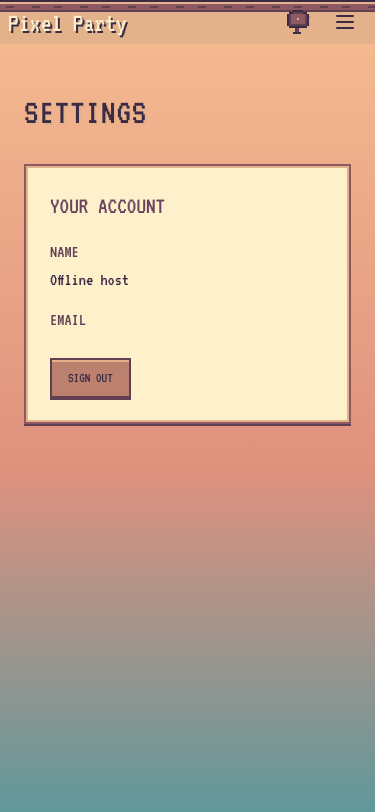
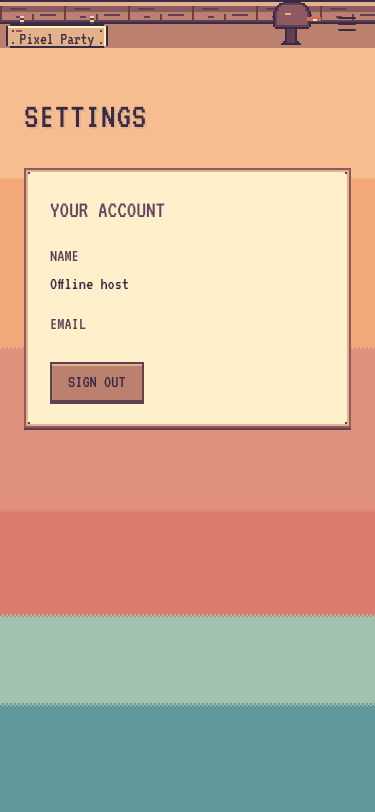
fix(theme): sign beam and backdrop art pass

diff --git a/src/components/Navigation.tsx b/src/components/Navigation.tsx
@@ -9,20 +9,45 @@ import { P } from '../scene/palette'
 import { defineSprite, drawSprite, type Sprite } from '../scene/sprite'
 import { DropdownMenu, DropdownMenuContent, DropdownMenuItem, DropdownMenuLabel, DropdownMenuSeparator, DropdownMenuTrigger } from './ui'
 
-const woodPalette = { a: P.wood[0], b: P.wood[1], c: P.wood[2], d: P.wood[3], e: P.wood[4], f: P.sun[4], g: P.flame[2] }
-const beam = defineSprite([
-  'aaaaaaaaaaaaaaaaaaaaaaaa', 'eeeeeeeeeeeeeeeeeeeeeeee', 'cccccccccccccccccccccccc',
-  'cccbbbbcccccccccbbbbcccc', 'cccccccccccccccccccccccc', 'bbbbbbbbbbbbbbbbbbbbbbbb',
-], woodPalette)
-const sign = defineSprite(Array.from({ length: 14 }, (_, y) => Array.from({ length: 40 }, (_, x) => {
-  if (y < 2) return x === 9 || x === 30 ? 'b' : '.'
-  if (y === 2 || y === 13 || x === 0 || x === 39) return 'a'
-  if (y === 3 || x === 38) return 'f'
-  if ((y === 5 && x > 3 && x < 11) || (y === 11 && x > 26 && x < 35)) return 'c'
-  return 'e'
+const woodPalette = { a: P.wood[0], b: P.wood[1], c: P.wood[2], d: P.wood[3], e: P.wood[4], f: P.sun[4], g: P.flame[1], h: P.paper[3], i: P.sea[1], j: P.sun[2] }
+const beam = defineSprite(Array.from({ length: 12 }, (_, y) => Array.from({ length: 32 }, (_, x) => {
+  if (y === 0 || y === 11) return 'a'
+  if (y === 1 || y === 2) return 'e'
+  if (y === 10) return 'b'
+  if (x === 0 || (x === 16 && y > 6)) return 'b'
+  if ((y === 4 && x > 4 && x < 13) || (y === 7 && x > 19 && x < 28) || (y === 8 && x > 7 && x < 11)) return 'b'
+  return y < 6 ? 'c' : 'd'
 }).join('')), woodPalette)
-const lantern = defineSprite(['...aaa...', '..abbba..', '..aeeea..', 'gabfffbag', 'gabfgfbag', 'gabfffbag', '.abfffba.', '..abbba..', '..aaaaa..', '...aaa...'], woodPalette)
-const mailbox = defineSprite(['....aaaaa.......', '..aabbbbbaa.....', '.abcccccccba....', '.abcccccccbag...', '.abcccecccbaee..', '.abcccccccba....', '.abcccccccba....', '.abbbbbbbbba....', '..aaaaaaaaa.....', '.....bb.........', '.....bb.........', '....aaaa........'], woodPalette)
+
+function plank(width: number, active = false): Sprite {
+  return defineSprite(Array.from({ length: 16 }, (_, y) => Array.from({ length: width }, (_, x) => {
+    if (y < 4) return x === 7 || x === 8 || x === width - 9 || x === width - 8 ? (y % 2 ? 'b' : 'h') : '.'
+    if ((y === 4 || y === 15) && (x < 2 || x >= width - 2)) return '.'
+    if (y === 4 || y === 15 || x === 0 || x === width - 1) return 'a'
+    if (y === 5 || x === width - 2) return 'f'
+    if ((x === 3 || x === width - 4) && (y === 7 || y === 13)) return 'b'
+    if (y === 7 && x > 4 && x < 8) return active ? 'd' : 'c'
+    return active ? 'h' : 'e'
+  }).join('')), woodPalette)
+}
+const sign = plank(40)
+const activeSign = plank(40, true)
+const logoSign = plank(51)
+const lantern = defineSprite([
+  '.......a.......', '......aba......', '.....ababa.....', '...j.abeba.j...', '..j.jafffa.jj..',
+  '.j.j.abffba.j..', '..j..abgfba..j.', '.j.j.abffba.j..', '..j.jabffbaj...', '...j.abbba.j...',
+  '.....aaaaa.....', '......aaa......',
+], woodPalette)
+const mailbox = defineSprite([
+  '.....aaaaaaaaa..........', '...aabbbbbbbbbaa........', '..abcccccccccccba.......', '.abcccccccccccccba......',
+  '.abcccccccccccccba......', 'abcccccccccccccccba.....', 'abcccceeeccccccccba.....', 'abcccccccccccccccba.....',
+  'abcccccccccccccccba.....', 'abcccccccccccccccba.....', 'abcccccccccccccccba.....', 'abcccccccccccccccba.....',
+  'abbbbbbbbbbbbbbbbba.....', '.aaaaaaaaaaaaaaaaa......', '......abbbba............', '......abbbba............',
+  '......abbbba............', '......abbbba............', '......abbbba............', '......abbbba............',
+  '.....aabbbbaa...........', '....aaaaaaaaaa..........', '........................',
+], woodPalette)
+const flagUp = defineSprite(['ggggg', 'gffgg', 'ggggg', 'g....', 'g....', 'g....', 'g....'], woodPalette)
+const flagDown = defineSprite(['.......', '.......', '.......', '.......', '.......', 'ggggggg', 'gggffgg'], woodPalette)
 
 function SpriteImage({ sprite, className = '' }: { sprite: Sprite; className?: string }) {
   const ref = useRef<HTMLCanvasElement>(null)
@@ -51,18 +76,18 @@ export default function Navigation() {
     const path = gallery && user ? `/u/${encodeURIComponent(user.id)}` : item.path
     const active = location.pathname === item.path || (gallery && location.pathname.startsWith('/u/'))
     return <Link key={item.label} to={path} onClick={gallery && !isSignedIn ? (event) => { event.preventDefault(); setShowAuthModal(true) } : undefined} aria-current={active ? 'page' : undefined} className="porch-nav__sign">
-      <SpriteImage sprite={sign} /><span>{item.label}</span>{active && <SpriteImage sprite={lantern} className="porch-nav__lantern" />}
+      <SpriteImage sprite={active ? activeSign : sign} /><span>{item.label}</span>{active && <SpriteImage sprite={lantern} className="porch-nav__lantern" />}
     </Link>
   }
   return <>
     <nav data-testid="app-navigation" className="porch-nav">
       <div className="porch-nav__beam" aria-hidden="true">{Array.from({ length: 40 }, (_, index) => <SpriteImage key={index} sprite={beam} />)}</div>
       <div className="porch-nav__row">
-        <Link to="/home" className="pp-logo porch-nav__logo">{APP_NAME}</Link>
+        <Link to="/home" className="porch-nav__logo"><SpriteImage sprite={logoSign} /><span>{APP_NAME}</span></Link>
         <div className="porch-nav__links">{visibleNav.map(navLink)}</div>
         <div className="porch-nav__spacer" />
         {!isLoaded || !profileReady ? null : isSignedIn && user ? <DropdownMenu>
-          <DropdownMenuTrigger render={<button aria-label="Account menu" className="porch-nav__mail"><SpriteImage sprite={mailbox} /><span data-testid="nav-user-name" className="porch-nav__username">{user.name || user.email}</span></button>} />
+          <DropdownMenuTrigger render={<button aria-label="Account menu" className="porch-nav__mail"><span className="porch-nav__mail-art"><SpriteImage sprite={mailbox} /><SpriteImage sprite={flagDown} className="porch-nav__flag" /></span><span data-testid="nav-user-name" className="porch-nav__username">{user.name || user.email}</span></button>} />
           <DropdownMenuContent align="end" className="w-56">
             <DropdownMenuLabel><div>{user.name || 'Signed in'}</div><div data-testid="nav-user-email" className="text-sm text-muted-foreground">{user.email}</div></DropdownMenuLabel>
             <DropdownMenuSeparator />
@@ -70,7 +95,7 @@ export default function Navigation() {
             <DropdownMenuItem render={<Link to="/settings" />}>Settings</DropdownMenuItem>
             <DropdownMenuItem onClick={() => signOut()}>Sign out</DropdownMenuItem>
           </DropdownMenuContent>
-        </DropdownMenu> : <button data-testid="nav-sign-in-button" onClick={() => setShowAuthModal(true)} className="porch-nav__mail"><SpriteImage sprite={mailbox} /><span>Sign in</span></button>}
+        </DropdownMenu> : <button data-testid="nav-sign-in-button" onClick={() => setShowAuthModal(true)} className="porch-nav__mail"><span className="porch-nav__mail-art"><SpriteImage sprite={mailbox} /><SpriteImage sprite={flagUp} className="porch-nav__flag" /></span><span className="porch-nav__username">Sign in</span></button>}
         <button className="porch-nav__toggle" onClick={() => setMobileMenuOpen((previous) => !previous)} aria-label="Toggle menu" aria-expanded={mobileMenuOpen}>{mobileMenuOpen ? <X aria-hidden /> : <Menu aria-hidden />}</button>
       </div>
       {mobileMenuOpen && <div className="porch-nav__mobile">{visibleNav.map(navLink)}</div>}

diff --git a/src/themes.css b/src/themes.css
@@ -37,7 +37,9 @@
 @media (max-width: 640px) { html { --px: 2px; } }
 .pixelated, .porch-sprite { image-rendering: pixelated; }
 .pp-logo { color: #fff0cc; text-shadow: var(--px) var(--px) #392a45; }
-.pp-panel { background: #fff0cc; border: var(--px) solid #8e5960; box-shadow: inset 0 0 0 var(--px) #e3b28a, 0 var(--px) 0 #614052; border-radius: 0; }
+.pp-panel { background: linear-gradient(#614052, #614052) top var(--px) left var(--px) / var(--px) var(--px) no-repeat, linear-gradient(#614052, #614052) top var(--px) right var(--px) / var(--px) var(--px) no-repeat, linear-gradient(#614052, #614052) bottom var(--px) left var(--px) / var(--px) var(--px) no-repeat, linear-gradient(#614052, #614052) bottom var(--px) right var(--px) / var(--px) var(--px) no-repeat, #fff0cc; border: var(--px) solid #8e5960; box-shadow: inset 0 0 0 var(--px) #e3b28a, 0 var(--px) 0 #614052; border-radius: 0; }
+.pp-panel :is(.text-xs, .text-sm) { font-size: 18px; line-height: 1.25; }
+.pp-panel .text-base { font-size: 20px; line-height: 1.25; }
 .pp-frame { padding: calc(var(--px) * 3); background: #8e5960; box-shadow: inset 0 0 0 var(--px) #e3b28a, 0 var(--px) 0 #614052; border-radius: 0; }
 .pp-chip { padding: var(--px) calc(var(--px) * 2); background: #ecd4b0; border: var(--px) solid #8e5960; color: #392a45; border-radius: 0; }
 .pp-danger { color: #a94958; border-color: #a94958; }
@@ -63,25 +65,29 @@
 @keyframes guess-pop { 0% { opacity: 0; transform: translateY(6px) scale(.94); } 60% { opacity: 1; transform: translateY(-2px) scale(1.03); } 100% { opacity: 1; transform: translateY(0) scale(1); } }
 .animate-guess-pop { animation: guess-pop 280ms cubic-bezier(.22, 1, .36, 1) both; }
 
-.porch-nav { position: relative; flex: none; background: #e3b28a; }
+.porch-nav { position: relative; flex: none; background: #bc806e; }
 .porch-nav__beam { position: absolute; top: 0; left: 0; right: 0; display: flex; overflow: hidden; pointer-events: none; }
 .porch-sprite { display: block; flex: none; }
-.porch-nav__row { position: relative; display: flex; align-items: center; gap: calc(var(--px) * 3); min-height: calc(var(--px) * 20); max-width: 1280px; margin: auto; padding: 0 calc(var(--px) * 4); }
-.porch-nav__logo { font-size: 27px; white-space: nowrap; line-height: 1; }
-.porch-nav__links { display: flex; align-items: flex-start; gap: var(--px); }
-.porch-nav__sign { position: relative; display: block; flex: none; min-height: 44px; color: #392a45; text-align: center; font-size: 21px; line-height: 1; }
-.porch-nav__sign > span { position: absolute; top: calc(var(--px) * 5); left: 0; right: 0; }
-.porch-nav__sign:hover > span { text-decoration: underline; }
-.porch-nav__lantern { position: absolute; right: calc(var(--px) * -3); top: calc(var(--px) * -2); }
+.porch-nav__row { position: relative; display: flex; align-items: flex-start; gap: calc(var(--px) * 2); min-height: calc(var(--px) * 24); max-width: 1280px; margin: auto; padding: 0 calc(var(--px) * 3); }
+.porch-nav__logo { position: relative; display: block; flex: none; margin-top: calc(var(--px) * 8); color: #392a45; font-size: 24px; white-space: nowrap; line-height: 1; }
+.porch-nav__logo > span { position: absolute; top: calc(var(--px) * 7); left: 0; right: 0; text-align: center; }
+.porch-nav__links { display: flex; align-items: flex-start; gap: calc(var(--px) * 2); margin-top: calc(var(--px) * 8); }
+.porch-nav__sign { position: relative; display: block; flex: none; min-height: 44px; color: #392a45; text-align: center; font-size: 21px; line-height: 1; transition: transform 100ms steps(1); }
+.porch-nav__sign > span { position: absolute; top: calc(var(--px) * 7); left: 0; right: 0; }
+.porch-nav__sign:hover, .porch-nav__sign:focus-visible { transform: translateY(calc(var(--px) * -1)); }
+.porch-nav__lantern { position: absolute; z-index: 1; right: calc(var(--px) * -8); top: calc(var(--px) * 6); pointer-events: none; }
 .porch-nav__spacer { flex: 1; }
-.porch-nav__mail { display: flex; align-items: center; gap: var(--px); min-height: 44px; color: #392a45; cursor: pointer; }
-.porch-nav__username { max-width: 120px; overflow: hidden; text-overflow: ellipsis; white-space: nowrap; }
-.porch-nav__toggle { display: none; align-items: center; justify-content: center; min-width: 44px; min-height: 44px; color: #392a45; }
+.porch-nav__mail { display: flex; align-items: center; align-self: center; gap: var(--px); min-height: 44px; color: #392a45; cursor: pointer; }
+.porch-nav__mail-art { position: relative; display: block; }
+.porch-nav__flag { position: absolute; top: calc(var(--px) * 3); right: 0; }
+.porch-nav__username { max-width: 120px; overflow: hidden; text-overflow: ellipsis; white-space: nowrap; background: #fff0cc; border: var(--px) solid #8e5960; padding: var(--px) calc(var(--px) * 2); font-size: 18px; }
+.porch-nav__toggle { display: none; align-self: center; align-items: center; justify-content: center; min-width: 44px; min-height: 44px; color: #392a45; }
 .porch-nav__mobile { display: none; }
 @media (max-width: 767px) {
   .porch-nav__links { display: none; }
   .porch-nav__toggle { display: flex; }
-  .porch-nav__mobile { position: relative; display: flex; flex-wrap: wrap; justify-content: center; gap: calc(var(--px) * 2); padding: calc(var(--px) * 2); background: #e3b28a; }
+  .porch-nav__mobile { position: relative; display: flex; flex-wrap: wrap; justify-content: center; gap: calc(var(--px) * 2); padding: calc(var(--px) * 2); background: #bc806e; }
   .porch-nav__username { display: none; }
 }
-@media (max-width: 640px) { .porch-nav__sign { font-size: 16px; } }
+@media (max-width: 640px) { .porch-nav__sign { font-size: 16px; } .porch-nav__logo { font-size: 17px; } }
+@media (prefers-reduced-motion: reduce) { .porch-nav__sign { transition: none; } .porch-nav__sign:hover, .porch-nav__sign:focus-visible { transform: none; } }

diff --git a/tests/offline/porch.spec.ts b/tests/offline/porch.spec.ts
@@ -7,11 +7,11 @@ const clientDir = resolve(import.meta.dirname, '../../dist/client')
 const user = { id: 'host', name: 'Offline host', email: 'host@example.test' }
 const token = `fixture.${Buffer.from(JSON.stringify({ sub: user.id, name: user.name, exp: 4_000_000_000 })).toString('base64url')}.unsigned`
 
-async function setup(page: Page) {
+async function setup(page: Page, signedOut = false) {
   await page.route('**/*', async (route) => {
     const url = new URL(route.request().url())
     if (url.origin !== origin) return route.abort()
-    if (url.pathname === '/api/auth/get-session') return route.fulfill({ json: { user, session: { id: 'offline', userId: user.id, expiresAt: '2096-01-01T00:00:00Z' } } })
+    if (url.pathname === '/api/auth/get-session') return route.fulfill({ json: signedOut ? null : { user, session: { id: 'offline', userId: user.id, expiresAt: '2096-01-01T00:00:00Z' } } })
     if (url.pathname === '/api/auth/token') return route.fulfill({ json: { token } })
     if (url.pathname === '/api/daily/me') return route.fulfill({ json: { day: '2026-11-17', status: 'not_started', autoUsed: 0, asksUsed: 0, asksLeft: 3, finalUsed: false, best: 0, windows: [], nextAutoAt: null, serverNow: Date.now() } })
     if (url.pathname.startsWith('/api/')) return route.fulfill({ json: {} })
@@ -58,6 +58,44 @@ test('mailbox menu provides account actions', async ({ page }) => {
   for (const name of ['My gallery', 'Settings', 'Sign out']) await expect(page.getByRole('menuitem', { name })).toBeVisible()
 })
 
+test('navigation artwork uses a substantial beam and mailbox', async ({ page }) => {
+  await page.setViewportSize({ width: 1280, height: 720 })
+  await setup(page)
+  await page.goto(`${origin}/party`)
+  const beam = page.locator('.porch-nav__beam canvas').first()
+  const mailbox = page.getByRole('button', { name: 'Account menu' }).locator('canvas').first()
+  await expect(beam).toBeVisible()
+  await expect(mailbox).toBeVisible()
+  expect((await beam.boundingBox())!.height).toBeGreaterThanOrEqual(36)
+  expect((await mailbox.boundingBox())!.height).toBeGreaterThanOrEqual(60)
+  await expect(page.getByRole('link', { name: 'Party', exact: true })).toHaveAttribute('aria-current', 'page')
+})
+
+test('sunset backdrop uses hard bands and a dithered seam', async ({ page }) => {
+  await setup(page)
+  await page.goto(`${origin}/party`)
+  const backdrop = await page.evaluate(() => ({ background: getComputedStyle(document.body).backgroundImage, dither: getComputedStyle(document.body, '::before').backgroundImage }))
+  expect(backdrop.background).toContain('linear-gradient')
+  expect(backdrop.dither).toContain('conic-gradient')
+})
+
+test('signed-out mailbox raises its flag', async ({ page }) => {
+  await setup(page, true)
+  await page.goto(`${origin}/party`)
+  const flag = page.getByTestId('nav-sign-in-button').locator('.porch-nav__flag')
+  await expect(flag).toHaveAttribute('width', '5')
+  await expect(flag).toHaveAttribute('height', '7')
+})
+
+test('reduced motion keeps the focused sign still', async ({ page }) => {
+  await page.emulateMedia({ reducedMotion: 'reduce' })
+  await setup(page)
+  await page.goto(`${origin}/party`)
+  const sign = page.getByRole('link', { name: 'Party', exact: true })
+  await sign.focus()
+  await expect(sign).toHaveCSS('transform', 'none')
+})
+
 for (const viewport of [{ width: 1440, height: 900 }, { width: 1280, height: 720 }, { width: 375, height: 812 }]) {
   for (const route of ['party', 'settings']) {
     test(`capture ${route} ${viewport.width}`, async ({ page }) => {
@@ -73,3 +111,15 @@ for (const viewport of [{ width: 1440, height: 900 }, { width: 1280, height: 720
     })
   }
 }
+
+test('capture home 1280', async ({ page }) => {
+  test.skip(process.env.SCREENSHOTS !== '1')
+  await page.setViewportSize({ width: 1280, height: 720 })
+  await setup(page)
+  await page.goto(`${origin}/home`)
+  await expect(page.getByTestId('app-navigation')).toBeVisible()
+  await page.evaluate(() => document.fonts.ready)
+  const dir = resolve(import.meta.dirname, '../../docs/superpowers/screenshots/2026-11-18-porch')
+  await mkdir(dir, { recursive: true })
+  await page.screenshot({ path: resolve(dir, 'home-1280x720.png'), fullPage: true })
+})

diff --git a/src/styles.css b/src/styles.css
@@ -151,8 +151,22 @@
     -moz-osx-font-smoothing: grayscale;
     font-size: 20px;
     color: var(--color-foreground);
-    background: linear-gradient(#f6bd91, #df917e 58%, #61989b);
+    background: linear-gradient(to bottom, #f6bd91 0 22%, #f2a878 22% 43%, #df917e 43% 63%, #d97c6d 63% 76%, #a2c1ae 76% 87%, #61989b 87% 100%);
   }
+
+  body::before {
+    content: '';
+    position: fixed;
+    inset: 0;
+    z-index: 0;
+    pointer-events: none;
+    background-image: repeating-conic-gradient(#f2a878 0 25%, transparent 0 50%), repeating-conic-gradient(#df917e 0 25%, transparent 0 50%), repeating-conic-gradient(#d97c6d 0 25%, transparent 0 50%), repeating-conic-gradient(#a2c1ae 0 25%, transparent 0 50%), repeating-conic-gradient(#61989b 0 25%, transparent 0 50%);
+    background-size: calc(var(--px) * 2) calc(var(--px) * 2);
+    background-position: 0 22%, 0 43%, 0 63%, 0 76%, 0 87%;
+    background-repeat: repeat-x;
+  }
+
+  #root { position: relative; z-index: 1; }
 
   /* Scrollbar styling */
   ::-webkit-scrollbar {

diff --git a/docs/progress.md b/docs/progress.md
@@ -478,3 +478,4 @@ The fake judge is selected by default in dev and tests so those runs make no pai
 - Reused the scene palette for the porch theme and built the sign beam, signs, lantern and account mailbox with pixel sprites. Added Daily, Party, Scores and Gallery navigation and the temporary Scores page.
 - Verified `npm run verify` (456 unit tests), the offline Playwright suite (57 passed, 12 screenshot tests skipped), and six inspected Party and Settings captures at desktop and phone sizes under `docs/superpowers/screenshots/2026-11-18-porch/`.
 - Updated existing offline assertions for the renamed Party link, porch colours and focus offsets, and excluded decorative nav canvases from the private-board insertion guard while retaining its drawing-canvas coverage.
+- Art pass: rebuilt the beam, suspended plank signs, lantern, logo sign and mailbox sprites; replaced the smooth backdrop with static palette bands and dithered seams; added corner nails and increased panel type sizes. Verified 456 unit tests, 61 offline tests, and seven inspected captures including `/home` at 1280×720.
